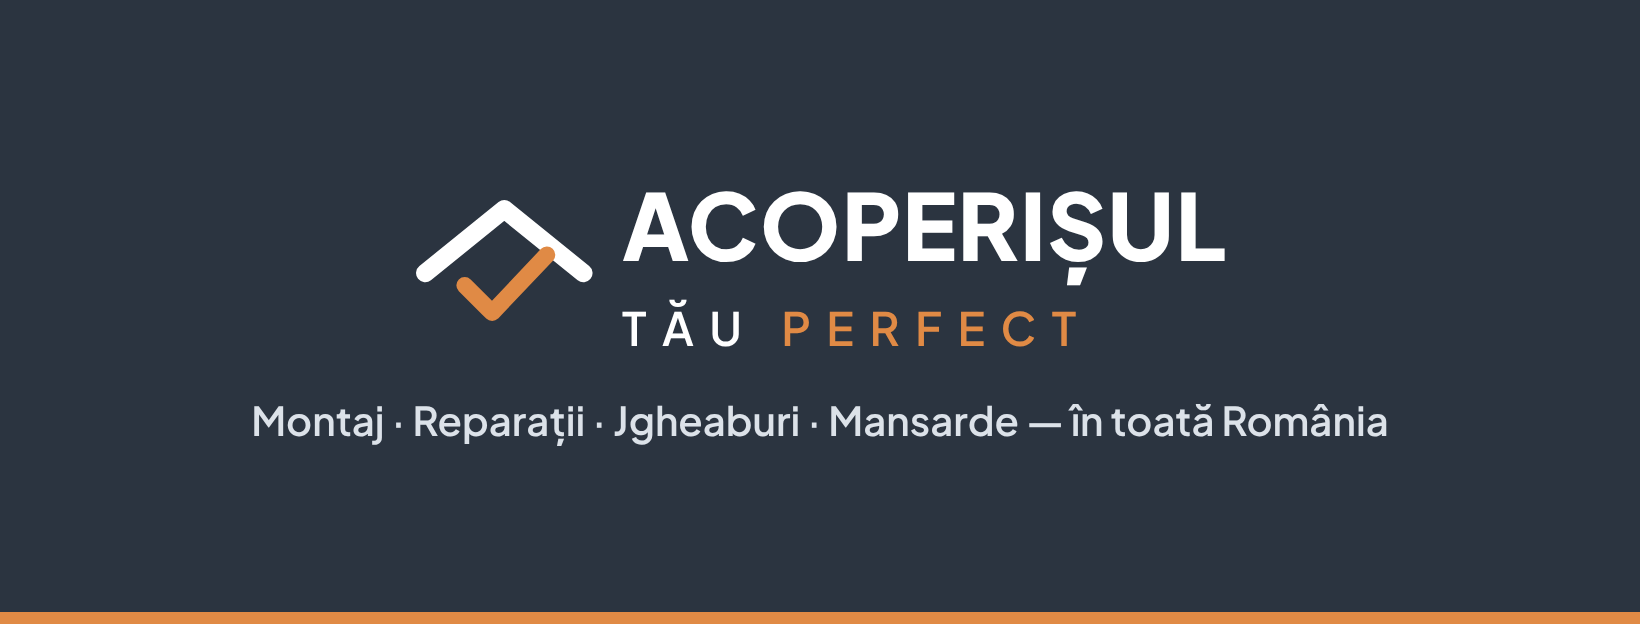
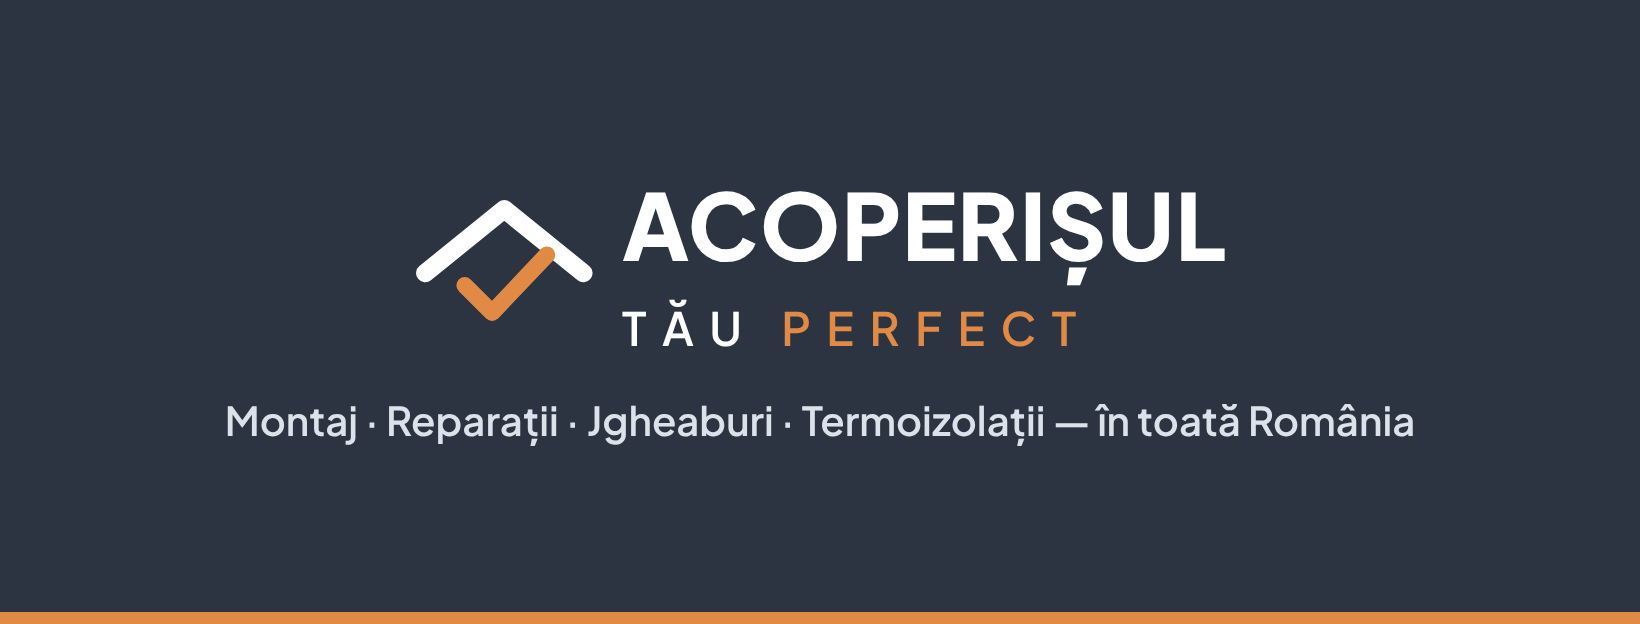
Acoperișul tău perfect: add thermal insulation (photos, ads, form, page texts)
Claude-Session: https://claude.ai/code/session_01UEuiXZJKrymgkmxKzAMS1m

Changed region(s): [[0.1244, 0.6394, 0.8707, 0.7308]]

diff --git a/acoperisul-tau-perfect/brand/sursa-brand.html b/acoperisul-tau-perfect/brand/sursa-brand.html
@@ -18,5 +18,5 @@
 <br>
 <div class="logo light" id="logoalb"><svg viewBox="0 0 120 92"><polyline points="8,52 60,10 112,52" fill="none" stroke="#fff" stroke-width="12" stroke-linecap="round" stroke-linejoin="round"/><polyline points="34,60 52,78 88,40" fill="none" stroke="#E08A45" stroke-width="11" stroke-linecap="round" stroke-linejoin="round"/></svg><div><div class="w1">ACOPERIȘUL</div><div class="w2">TĂU <span class="c">PERFECT</span></div></div></div>
 <div id="profil"><svg viewBox="0 0 120 92"><polyline points="8,52 60,10 112,52" fill="none" stroke="#fff" stroke-width="12" stroke-linecap="round" stroke-linejoin="round"/><polyline points="34,60 52,78 88,40" fill="none" stroke="#E08A45" stroke-width="11" stroke-linecap="round" stroke-linejoin="round"/></svg></div>
-<div id="coperta"><div class="logo light"><svg viewBox="0 0 120 92"><polyline points="8,52 60,10 112,52" fill="none" stroke="#fff" stroke-width="12" stroke-linecap="round" stroke-linejoin="round"/><polyline points="34,60 52,78 88,40" fill="none" stroke="#E08A45" stroke-width="11" stroke-linecap="round" stroke-linejoin="round"/></svg><div><div class="w1">ACOPERIȘUL</div><div class="w2">TĂU <span class="c">PERFECT</span></div></div></div><div class="tag">Montaj · Reparații · Jgheaburi · Mansarde — în toată România</div></div>
+<div id="coperta"><div class="logo light"><svg viewBox="0 0 120 92"><polyline points="8,52 60,10 112,52" fill="none" stroke="#fff" stroke-width="12" stroke-linecap="round" stroke-linejoin="round"/><polyline points="34,60 52,78 88,40" fill="none" stroke="#E08A45" stroke-width="11" stroke-linecap="round" stroke-linejoin="round"/></svg><div><div class="w1">ACOPERIȘUL</div><div class="w2">TĂU <span class="c">PERFECT</span></div></div></div><div class="tag">Montaj · Reparații · Jgheaburi · Termoizolații — în toată România</div></div>
 </body></html>

diff --git a/acoperisul-tau-perfect/reclame/sursa-foto.html b/acoperisul-tau-perfect/reclame/sursa-foto.html
@@ -55,4 +55,16 @@ p{font-size:36px;font-weight:500;color:#DCE2E9;margin-top:18px}
  <div class="text"><h1>Tablă ruginită <em>sau desprinsă?</em></h1><p>O reparăm sau o schimbăm, cu jgheaburi noi.</p></div>
  <div class="bar">Cereți o ofertă →<span>5 secunde</span></div>
 </div>
+<div class="ad" id="f8">
+ <div class="top"><img src="../brand/logo-alb.png"><div class="area">În toată România</div></div>
+ <div class="photo" style="background-image:url(foto-stoc-6-termoizolatie-mansarda.jpg);background-position:40% center"></div>
+ <div class="text"><h1>Vă e frig <em>în casă iarna?</em></h1><p>Termoizolăm podul și mansarda.</p></div>
+ <div class="bar">Cereți o ofertă →<span>5 secunde</span></div>
+</div>
+<div class="ad" id="f9">
+ <div class="top"><img src="../brand/logo-alb.png"><div class="area">În toată România</div></div>
+ <div class="photo" style="background-image:url(foto-stoc-7-termoizolatie-pod.jpg)"></div>
+ <div class="text"><h1>Termoizolație <em>pentru pod și mansardă.</em></h1><p>Ne ocupăm de tot, de la evaluare la montaj.</p></div>
+ <div class="bar">Cereți o ofertă →<span>5 secunde</span></div>
+</div>
 </body></html>

diff --git a/acoperisul-tau-perfect/README.md b/acoperisul-tau-perfect/README.md
@@ -7,7 +7,7 @@ Texts for the Facebook page, Instagram account and WhatsApp Business profile of 
 **Before publishing:**
 - Area: **the whole of Romania** (Toma, 18 Nov 2026; was București și Ilfov until then).
 - Customer number: 0728 636 383 (confirmed by Toma, 13 Nov 2026).
-- Remove any service he doesn't offer (check *mansarde*, *dulgherie*, *termoizolație*).
+- Services confirmed: roofs, repairs, gutters and **thermal insulation (termoizolații)** (Toma, 25 Nov 2026). Still check *mansarde* and *dulgherie*.
 
 ## Brand
 
@@ -39,7 +39,7 @@ Files are in `brand/` (`sursa-brand.html` regenerates them):
 | Page name | Acoperișul tău perfect |
 | Category | Roofing Service (Serviciu de acoperișuri), plus Contractor |
 | Username | `acoperisultauperfect` (if taken: `acoperisul.tau.perfect`) |
-| Bio (max 101 characters) | `Acoperișul tău perfect: montaj, reparații, jgheaburi. Sunați pentru ofertă: 0728 636 383` |
+| Bio (max 101 characters) | `Acoperișul tău perfect: montaj, reparații, jgheaburi, termoizolații. Ofertă: 0728 636 383` |
 | Service area | Romania (entire country) |
 | Button | Call now (*Sunați acum*), number 0728 636 383 |
 
@@ -51,7 +51,8 @@ Ce facem:
 • Acoperișuri noi și înlocuiri de acoperiș
 • Reparații și infiltrații
 • Jgheaburi și burlane
-• Mansarde, dulgherie, termoizolație
+• Termoizolații: pod, mansardă, acoperiș
+• Mansarde, dulgherie
 
 Cum cereți o ofertă:
 1. Sunați-ne la 0728 636 383
@@ -76,9 +77,9 @@ Lucrăm în toată țara.
 **Bio** (max 150 characters):
 ```
 🏠 Acoperișul casei, făcut cum trebuie
-Montaj · Reparații · Jgheaburi · Mansarde
+Montaj · Reparații · Jgheaburi · Termoizolații
 📍 Lucrăm în toată România
-📞 Sunați pentru ofertă: 0728 636 383
+📞 Ofertă: 0728 636 383
 ```
 
 ## WhatsApp Business
@@ -98,7 +99,7 @@ In the WhatsApp Business app, the short link (`wa.me/message/…`) can carry a d
 ```
 Bună ziua! Aș dori o ofertă pentru acoperiș.
 📍 Localitatea:
-🔧 Lucrarea (reparație / acoperiș nou / jgheaburi / altceva):
+🔧 Lucrarea (reparație / acoperiș nou / jgheaburi / termoizolație / altceva):
 📷 Atașez mai jos 2–3 poze.
 ```
 
@@ -121,7 +122,7 @@ Built from `../playbooks/meta-lead-form.md`. Create it in **business.facebook.co
 
 | Setting | Value |
 |---|---|
-| Form name | `Acoperișul tău perfect · Ofertă rapidă` |
+| Form name | `Acoperișul tău perfect · Ofertă rapidă · România` (copy of the first form, with City and Termoizolație added) |
 | Type | **More volume** (*Volum mai mare*) |
 | Intro | Off. If Meta insists: ad image + headline `Ofertă gratuită în 5 secunde`, no description |
 | Language | Romanian |
@@ -140,6 +141,7 @@ Built from `../playbooks/meta-lead-form.md`. Create it in **business.facebook.co
    - `Acoperiș nou sau înlocuire`
    - `Reparație la acoperiș`
    - `Jgheaburi și burlane`
+   - `Termoizolație (pod, mansardă)`
 2. Prefill: **Full name**, **Phone number**, **City** (*Oraș*). The ads run in the whole country, so the town is needed; it is prefilled, so it costs no typing.
 
 **Privacy policy:** text `Politica de confidențialitate`, link `https://ctoma0915-bit.github.io/Business-grower/acoperisul-tau-perfect/confidentialitate/`
@@ -162,6 +164,8 @@ Images in `reclame/` (1080×1350; `sursa.html` and `sursa-foto.html` regenerate 
 | 3 | `reclama-3-iarna.png` | Pregătiți acoperișul pentru iarnă. |
 | 4 | `reclama-4-foto-acoperis-nou.png` | Acoperiș nou sau reparații? |
 | 5 | `reclama-5-foto-iarna.png` | Schimbați acoperișul înainte de iarnă. |
+| 11 | `reclama-11-foto-termoizolatie-frig.png` | Vă e frig în casă iarna? (termoizolație) |
+| 12 | `reclama-12-foto-termoizolatie-pod.png` | Termoizolație pentru pod și mansardă. |
 
 **Primary texts:**
 - Leak: `Vă intră apa în casă? Trimiteți-ne cererea și vă spunem ce e de făcut la acoperiș.`
@@ -176,7 +180,7 @@ Use only his real photos and jobs. Don't invent numbers, years or guarantees.
 
 1. **Introduction:** a photo of his team or of a finished roof, plus:
    ```
-   Acoperișul tău perfect: ne ocupăm de tot ce ține de acoperișul casei, de la prima evaluare până la ultimul detaliu. Montaj, reparații, jgheaburi, mansarde. Sunați-ne la 0728 636 383 și vă spunem ce e de făcut.
+   Acoperișul tău perfect: ne ocupăm de tot ce ține de acoperișul casei, de la prima evaluare până la ultimul detaliu. Montaj, reparații, jgheaburi, termoizolații, mansarde. Sunați-ne la 0728 636 383 și vă spunem ce e de făcut.
    ```
 2. **What "perfect" means:** a photo of a roof in progress, plus:
    ```

diff --git a/acoperisul-tau-perfect/reclame/SURSE-FOTO.md b/acoperisul-tau-perfect/reclame/SURSE-FOTO.md
@@ -9,3 +9,5 @@ Stock photos used only as illustrations. They are **not** the client's jobs: nev
 | `foto-stoc-3-tigla-rosie.jpg` | Pexels (sent by Toma, 17 Nov 2026; Pexels license, free for commercial use) | Pexels License |
 | `foto-stoc-4-echipa-tabla.jpg` | Free stock photo sent by Toma, 18 Nov 2026 (he confirmed it is free to use) | Free licence |
 | `foto-stoc-5-montaj-tabla.jpg` | Free stock photo sent by Toma, 18 Nov 2026 (he confirmed it is free to use) | Free licence |
+| `foto-stoc-6-termoizolatie-mansarda.jpg` | [Installing installation in an attic (9337).jpg](https://commons.wikimedia.org/wiki/File:Installing_installation_in_an_attic_(9337).jpg), Wikimedia Commons | CC0 (public domain) |
+| `foto-stoc-7-termoizolatie-pod.jpg` | [Insulating attic (49525467656).jpg](https://commons.wikimedia.org/wiki/File:Insulating_attic_(49525467656).jpg), Wikimedia Commons | Public domain |
